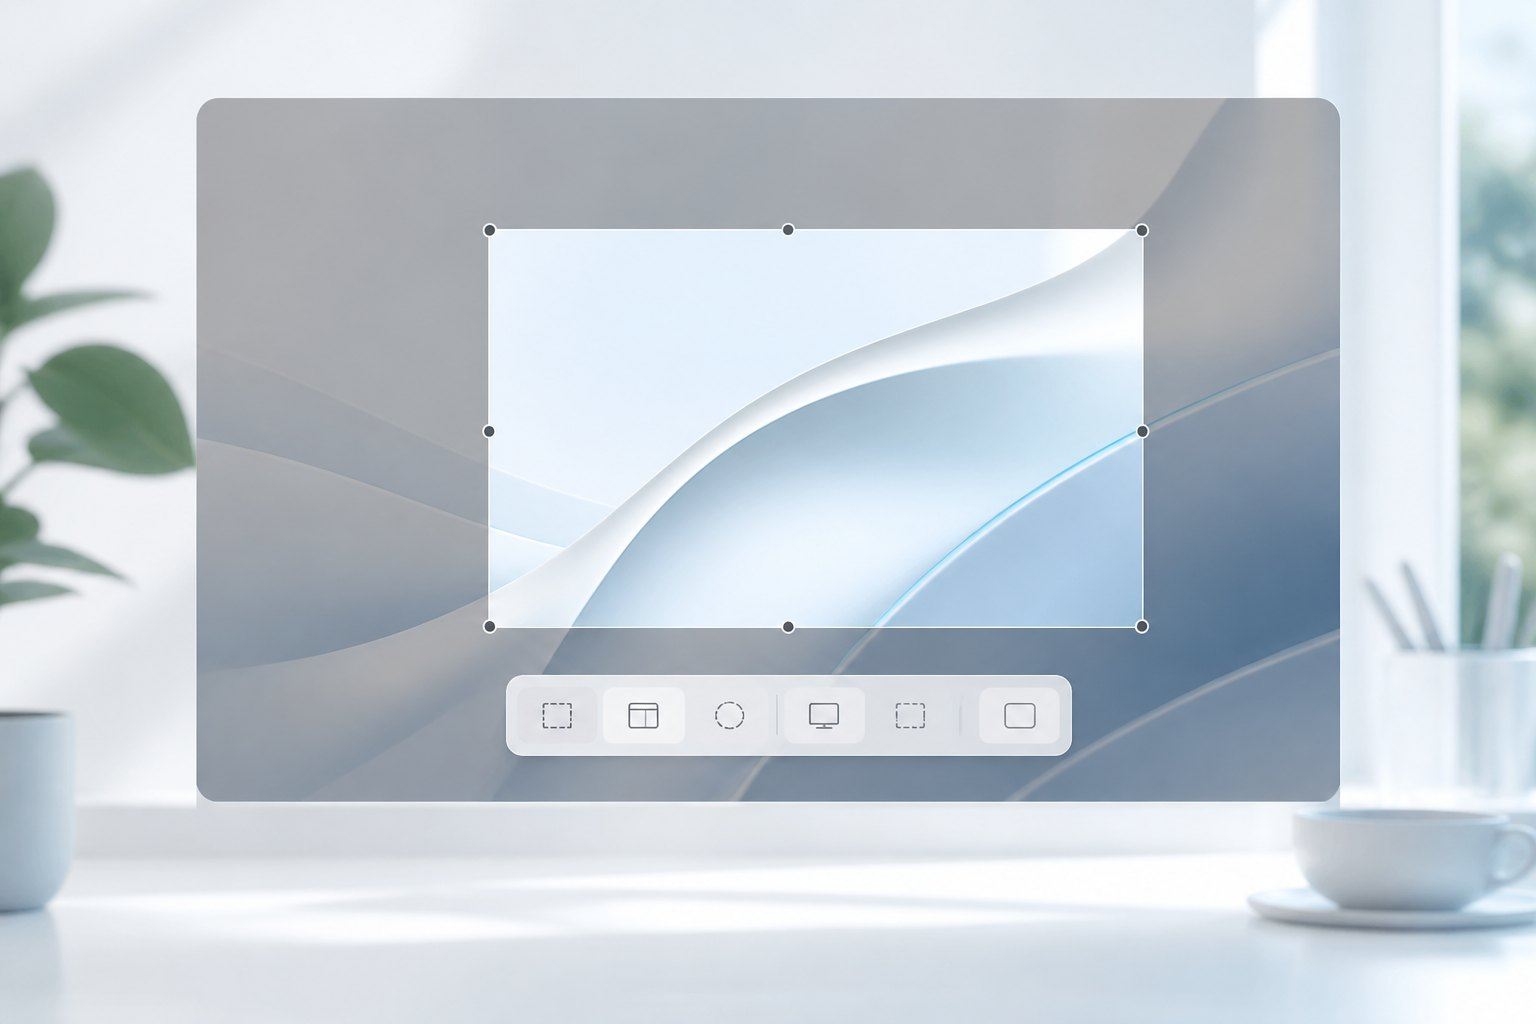
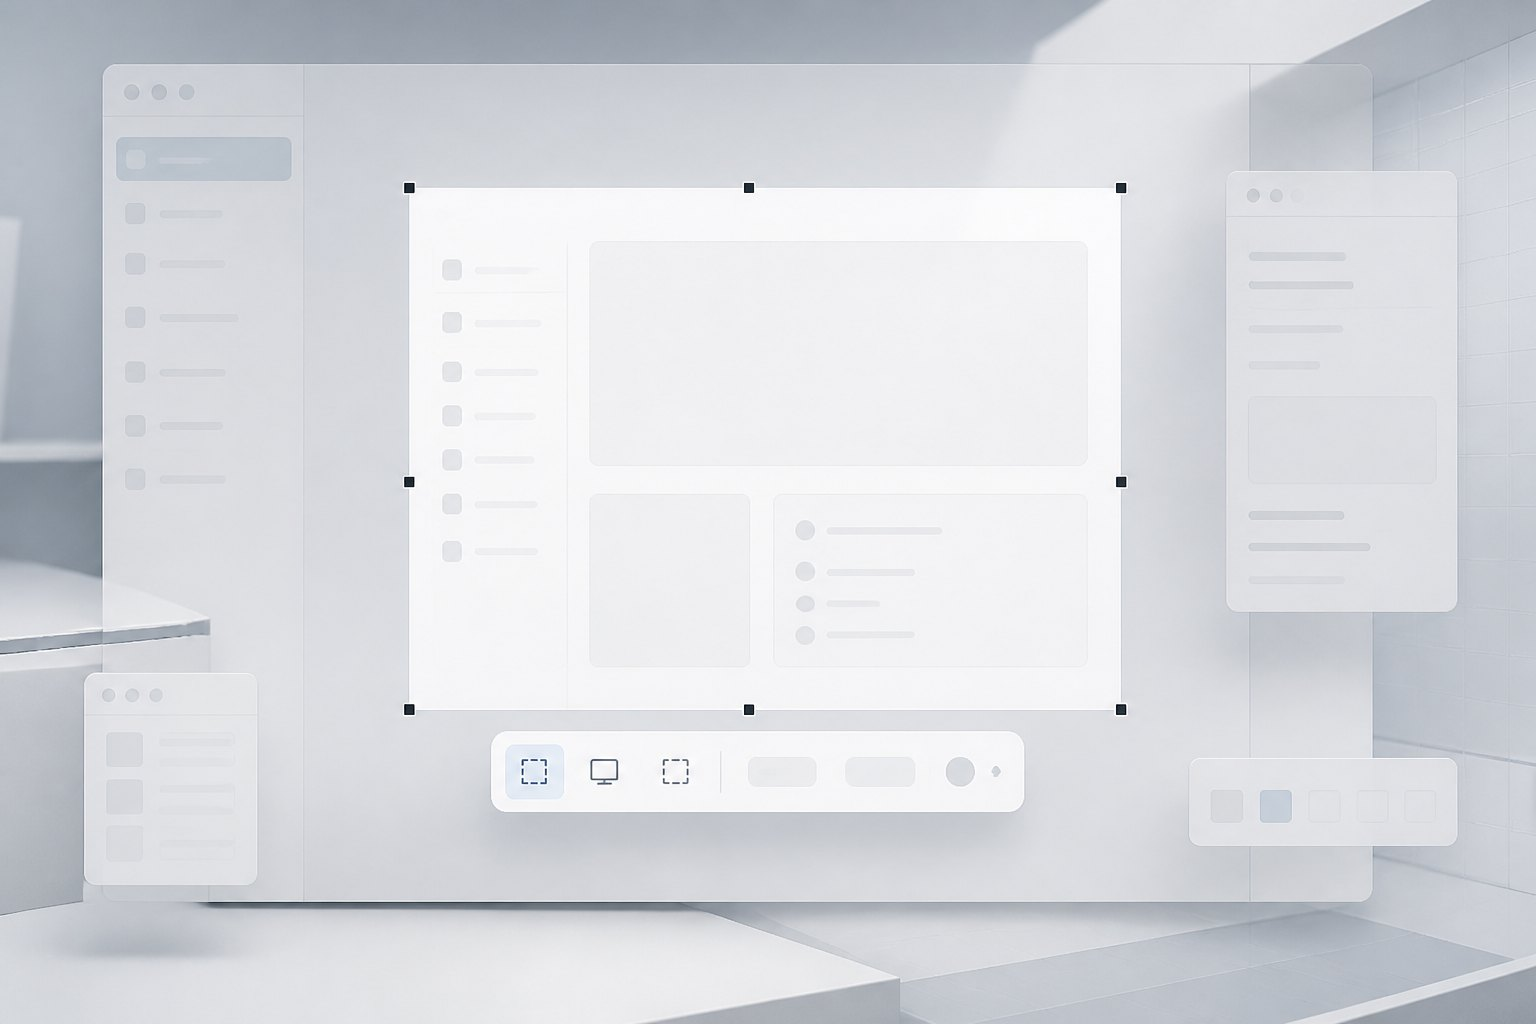
Replace carousel art with clean software product visuals.

diff --git a/docs/index.html b/docs/index.html
@@ -47,13 +47,13 @@
       <div class="hero-stage" data-carousel aria-roledescription="carousel" aria-label="产品海报">
         <div class="slides">
           <figure class="slide is-active" data-index="0">
-            <img src="poster-capture.jpg?v=2" width="1536" height="1024" alt="截图：选区框与工具条" decoding="async" fetchpriority="high" />
+            <img src="poster-capture.jpg?v=3" width="1536" height="1024" alt="截图：选区框与工具条" decoding="async" fetchpriority="high" />
           </figure>
           <figure class="slide" data-index="1">
-            <img src="poster-record.jpg?v=2" width="1536" height="1024" alt="录屏：录制指示与悬浮计时" decoding="async" />
+            <img src="poster-record.jpg?v=3" width="1536" height="1024" alt="录屏：录制指示与悬浮计时" decoding="async" />
           </figure>
           <figure class="slide" data-index="2">
-            <img src="poster-annotate.jpg?v=2" width="1536" height="1024" alt="标注：箭头高亮与编辑工具" decoding="async" />
+            <img src="poster-annotate.jpg?v=3" width="1536" height="1024" alt="标注：箭头高亮与编辑工具" decoding="async" />
           </figure>
         </div>
         <div class="stage-vignette"></div>
@@ -91,7 +91,7 @@
         </ul>
       </div>
       <div class="split-visual">
-        <img src="poster-capture.jpg?v=2" width="1536" height="1024" alt="截图功能示意" loading="lazy" />
+        <img src="poster-capture.jpg?v=3" width="1536" height="1024" alt="截图功能示意" loading="lazy" />
       </div>
     </section>
 
@@ -107,7 +107,7 @@
         </ul>
       </div>
       <div class="split-visual">
-        <img src="poster-record.jpg?v=2" width="1536" height="1024" alt="录屏功能示意" loading="lazy" />
+        <img src="poster-record.jpg?v=3" width="1536" height="1024" alt="录屏功能示意" loading="lazy" />
       </div>
     </section>
 
